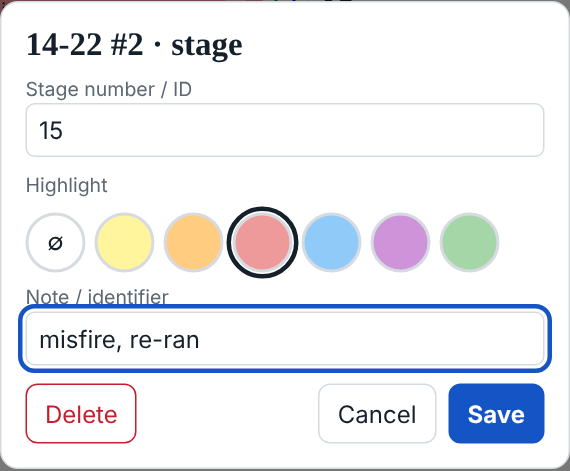
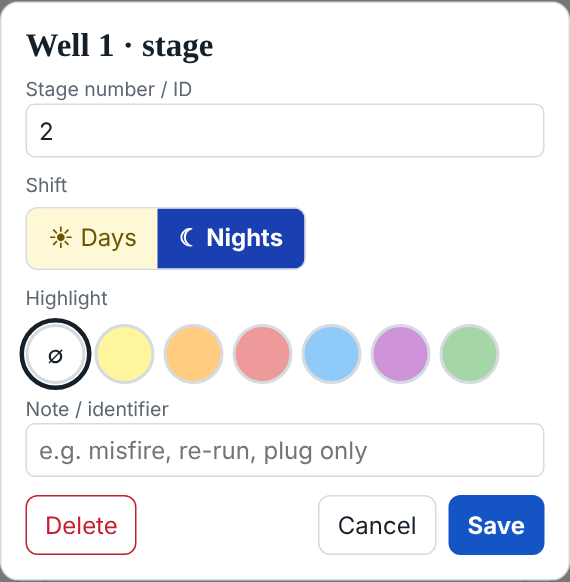
Let a stage's shift be changed from the stage editor
Days / Nights choice in the stage window; saving moves the stage to the
other shift's XO notes and updates its D / N tag. Help page updated.

Claude-Session: https://claude.ai/code/session_01VgqTXvRicyLPoHF4HXncHg

diff --git a/index.html b/index.html
@@ -117,6 +117,11 @@ textarea{width:100%;min-height:120px;font:13px/1.3 ui-monospace,monospace;border
 .top .seg button[data-shift=D]{background:light-dark(#fff8d6,#3a3210);color:light-dark(#6b5600,#f5d96b)}
 .top .seg button[data-shift=N]{background:light-dark(#e3ebff,#17224a);color:light-dark(#1d3f9e,#9bb5ff)}
 .top .seg button[data-shift=D][aria-pressed=true]{background:#ffd400;color:#111}
+.sseg{display:inline-flex;margin-top:4px}.sseg button{min-height:40px;padding:0 14px}
+.sseg button[data-ss=D]{background:light-dark(#fff8d6,#3a3210);color:light-dark(#6b5600,#f5d96b)}
+.sseg button[data-ss=N]{background:light-dark(#e3ebff,#17224a);color:light-dark(#1d3f9e,#9bb5ff)}
+.sseg button[data-ss=D][aria-pressed=true]{background:#ffd400;color:#111;font-weight:700}
+.sseg button[data-ss=N][aria-pressed=true]{background:#1a3fb0;color:#fff;font-weight:700}
 .top .seg button[data-shift=N][aria-pressed=true]{background:#1a3fb0;color:#fff}
 .top .seg:has([data-shift=D][aria-pressed=true]){border-color:#e0b800}
 .top .seg:has([data-shift=N][aria-pressed=true]){border-color:#1a3fb0}
@@ -262,6 +267,7 @@ textarea{width:100%;min-height:120px;font:13px/1.3 ui-monospace,monospace;border
 <dialog id="dlgStage"><form method="dialog" id="fStage">
   <h2 id="sTitle">Stage</h2>
   <label class="lbl" for="sNum">Stage number / ID</label><input id="sNum" autocomplete="off">
+  <div class="lbl" style="margin-top:10px">Shift</div><div class="seg sseg" id="sShift"><button type="button" data-ss="D">☀ Days</button><button type="button" data-ss="N">☾ Nights</button></div>
   <div class="lbl" style="margin-top:10px">Highlight</div><div class="sw" id="sSw"></div>
   <label class="lbl" for="sNote">Note / identifier</label><input id="sNote" placeholder="e.g. misfire, re-run, plug only" autocomplete="off">
   <div class="row"><button type="button" class="danger" id="sDel">Delete</button><span style="flex:1"></span><button type="button" id="sCancel">Cancel</button><button class="primary" id="sSave">Save</button></div>
@@ -423,9 +429,14 @@ $('sSw').innerHTML=COLORS.map(([c,n])=>`<button type="button" data-c="${c}" titl
 $('sSw').onclick=ev=>{const b=ev.target.closest('button');if(!b)return;pick=b.dataset.c;paintSw()};
 const paintSw=()=>$('sSw').querySelectorAll('button').forEach(b=>b.setAttribute('aria-pressed',b.dataset.c===pick));
 function openStage(wi,si){cur=[wi,si];const s=S.wells[wi].stages[si];$('sTitle').textContent=S.wells[wi].name+' · stage';
-  $('sNum').value=s.num;$('sNote').value=s.note;pick=s.color;paintSw();$('dlgStage').showModal()}
+  $('sNum').value=s.num;$('sNote').value=s.note;pick=s.color;paintSw();pickSh=s.shift||S.shift;paintSh();$('dlgStage').showModal()}
+let pickSh='D';const paintSh=()=>$('sShift').querySelectorAll('button').forEach(b=>b.setAttribute('aria-pressed',b.dataset.ss===pickSh));
+$('sShift').onclick=ev=>{const b=ev.target.closest('button');if(!b)return;pickSh=b.dataset.ss;paintSh()};
 $('fStage').onsubmit=ev=>{ev.preventDefault();const[wi,si]=cur;const s=S.wells[wi].stages[si];
-  change(()=>{s.num=$('sNum').value.trim()||s.num;s.note=$('sNote').value.trim();s.color=pick;const[,e]=logEntry(s.id);if(e){e.num=s.num;e.note=s.note}});$('dlgStage').close()};
+  const moved=pickSh!==s.shift;
+  change(()=>{s.num=$('sNum').value.trim()||s.num;s.note=$('sNote').value.trim();s.color=pick;const[k,e]=logEntry(s.id);if(e){e.num=s.num;e.note=s.note}
+    if(moved){if(e)shD(k).log=shD(k).log.filter(y=>y!==e);shD(pickSh).log.push({sid:s.id,w:S.wells[wi].id,num:s.num,note:s.note});s.shift=pickSh}});
+  $('dlgStage').close();if(moved)toast('Stage '+s.num+' moved to '+SH[pickSh])};
 $('sCancel').onclick=()=>$('dlgStage').close();
 $('sDel').onclick=()=>{const[wi,si]=cur;change(()=>{const[x]=S.wells[wi].stages.splice(si,1);const[k,e]=logEntry(x.id);if(e)shD(k).log=shD(k).log.filter(y=>y!==e)});$('dlgStage').close();toast('Stage deleted')};
 

diff --git a/help.html b/help.html
@@ -77,7 +77,7 @@ footer{color:var(--mute);font-size:14px;padding:10px 0 40px}
   <p>Every stage you add and every <span class="key">+1 run</span> you press is tagged with the shift that's selected. That's how the Days XO and Nights XO tabs know which stages and runs belong to which crew.</p>
   <div class="warn"><b>Switch it at crew change.</b>It doesn't change by itself. If nights forgets to switch, their stages get counted on the Days XO notes. Each stage shows a small <b>D</b> or <b>N</b> tag so you can check.</div>
   <figure><img src="help/header-nights.png" alt="Top bar with Nights selected in blue"><figcaption>Nights selected: the switch turns blue.</figcaption></figure>
-  <p>Got a stage on the wrong shift? Tap the stage, <b>Delete</b> it, switch to the right shift, and add it again.</p>
+  <p>Got a stage on the wrong shift? Tap the stage on the Board, pick the right <b>Shift</b>, and <b>Save</b>. The stage moves to that shift's XO notes and its D / N tag changes.</p>
 </section>
 
 <section id="bar">
@@ -131,7 +131,7 @@ footer{color:var(--mute);font-size:14px;padding:10px 0 40px}
     <li>Bottom of each column: Days and Nights stages today, then today's total · completed / total stages.</li>
   </ul>
   <div style="display:grid;grid-template-columns:repeat(auto-fit,minmax(260px,1fr));gap:14px">
-    <figure class="small"><img src="help/stage-edit.png" alt="Stage edit window with number, highlight and note"><figcaption>Tap a stage to change its number, highlight it, add a note, or delete it.</figcaption></figure>
+    <figure class="small"><img src="help/stage-edit.png" alt="Stage edit window with number, highlight and note"><figcaption>Tap a stage to change its number or shift, highlight it, add a note, or delete it.</figcaption></figure>
     <figure class="small"><img src="help/well-colour.png" alt="Well colour picker with named colours"><figcaption>Well colours.</figcaption></figure>
   </div>
 
